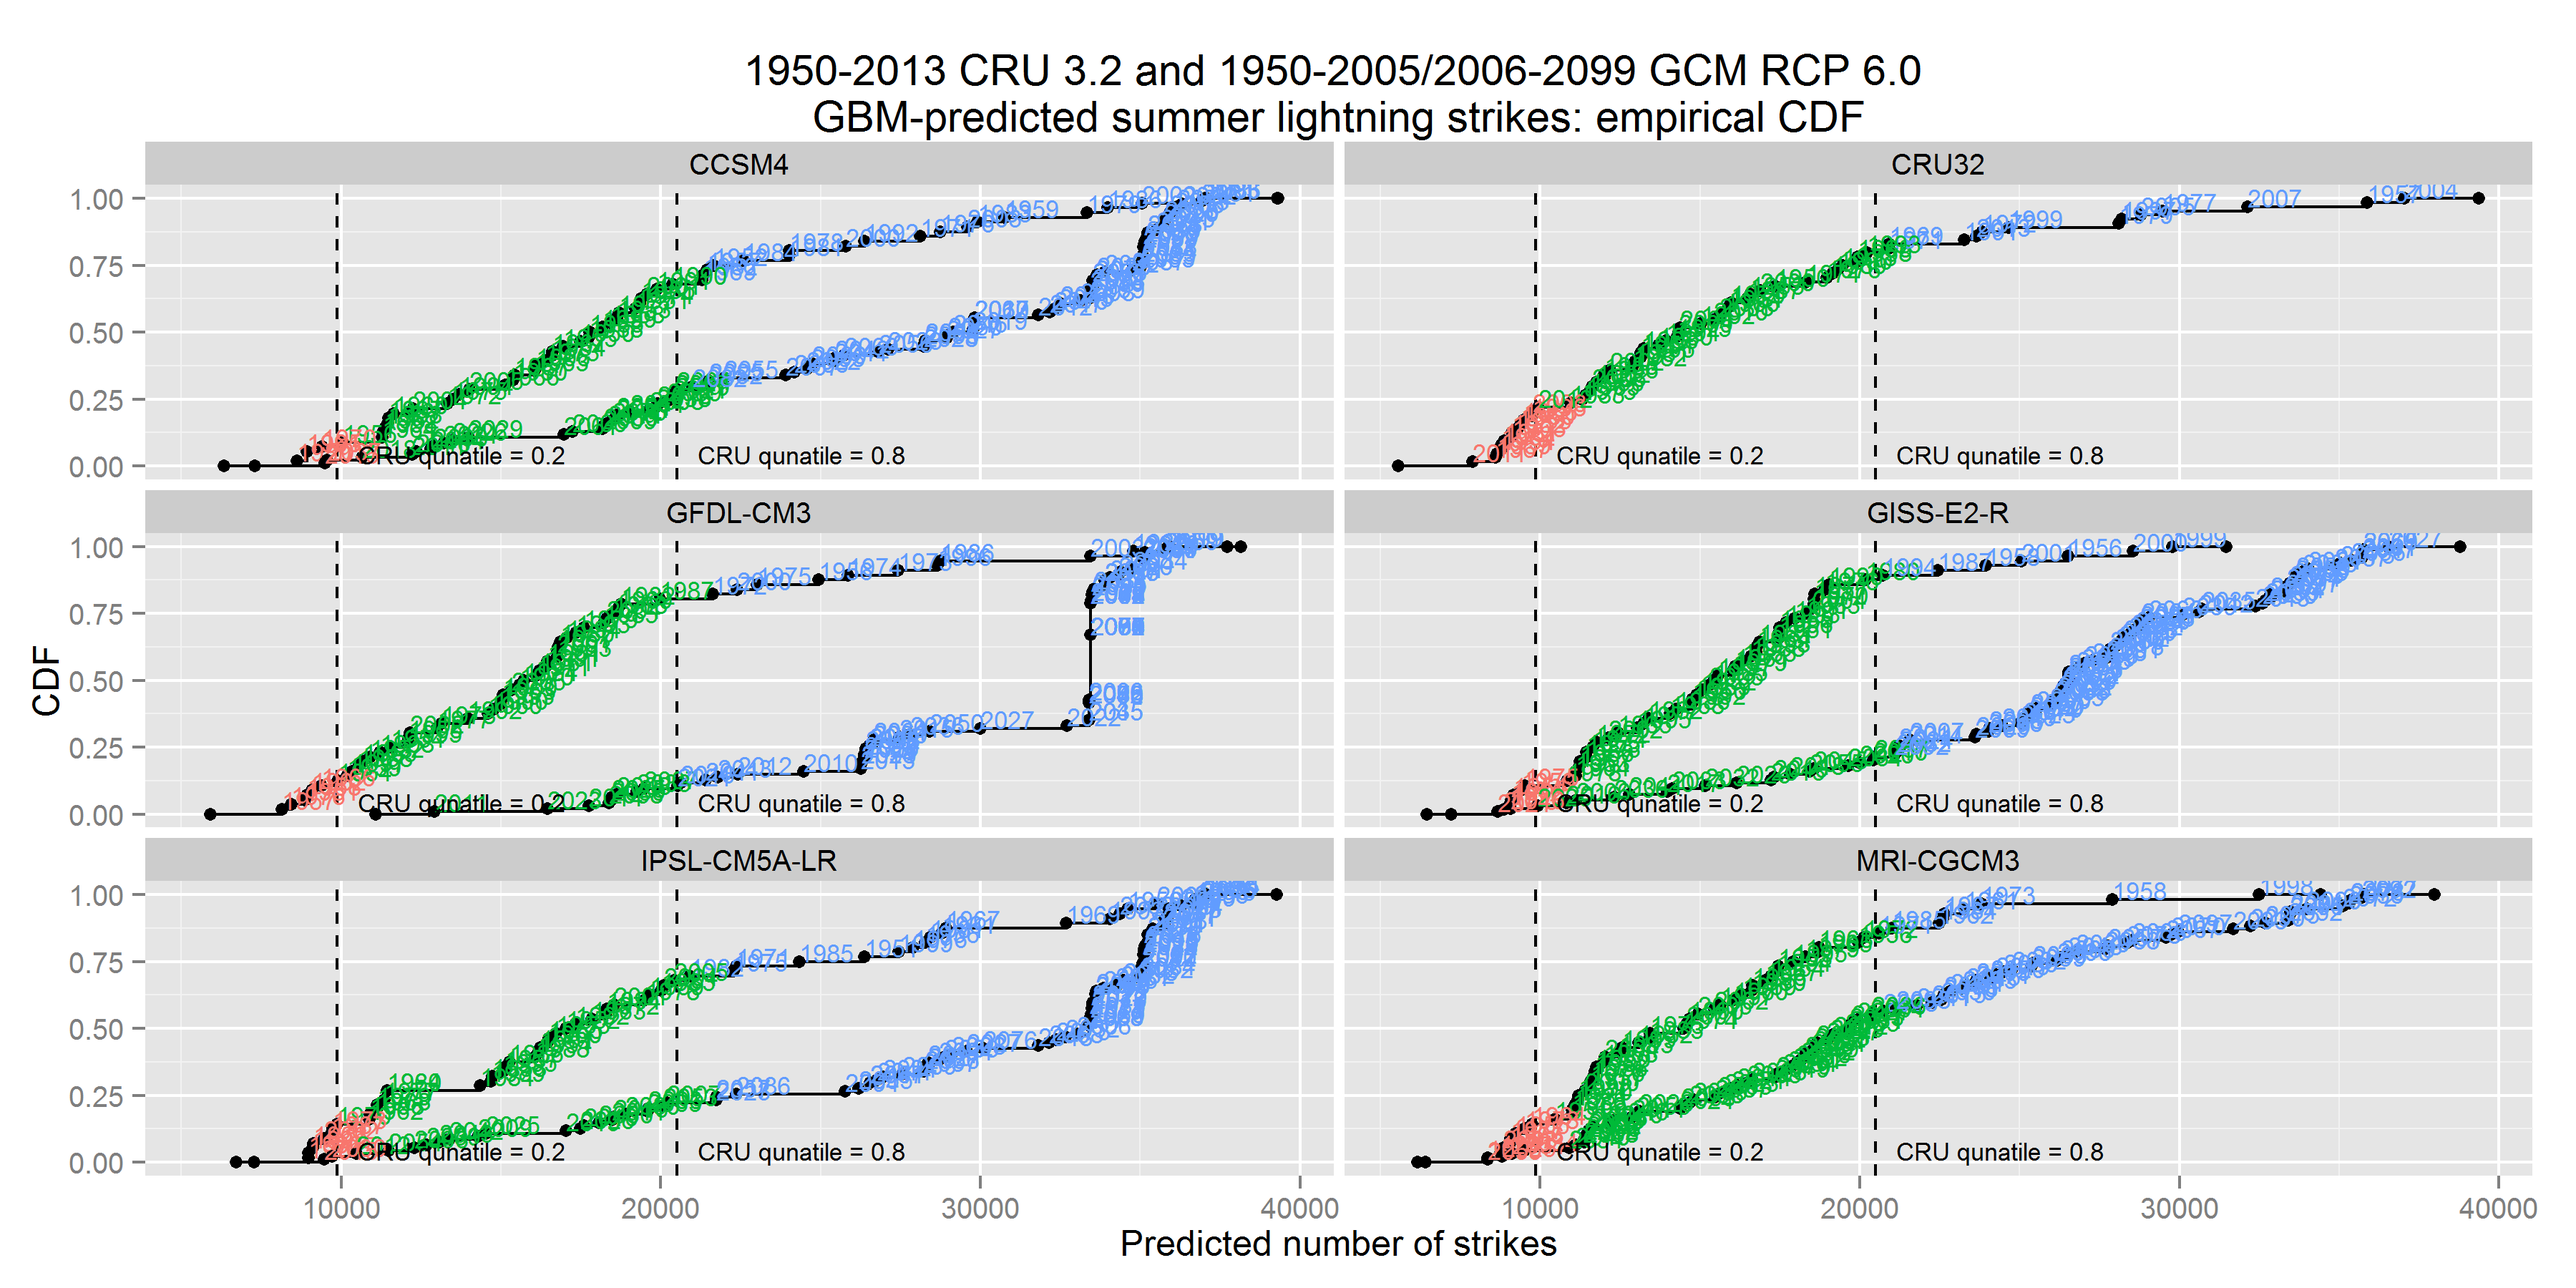
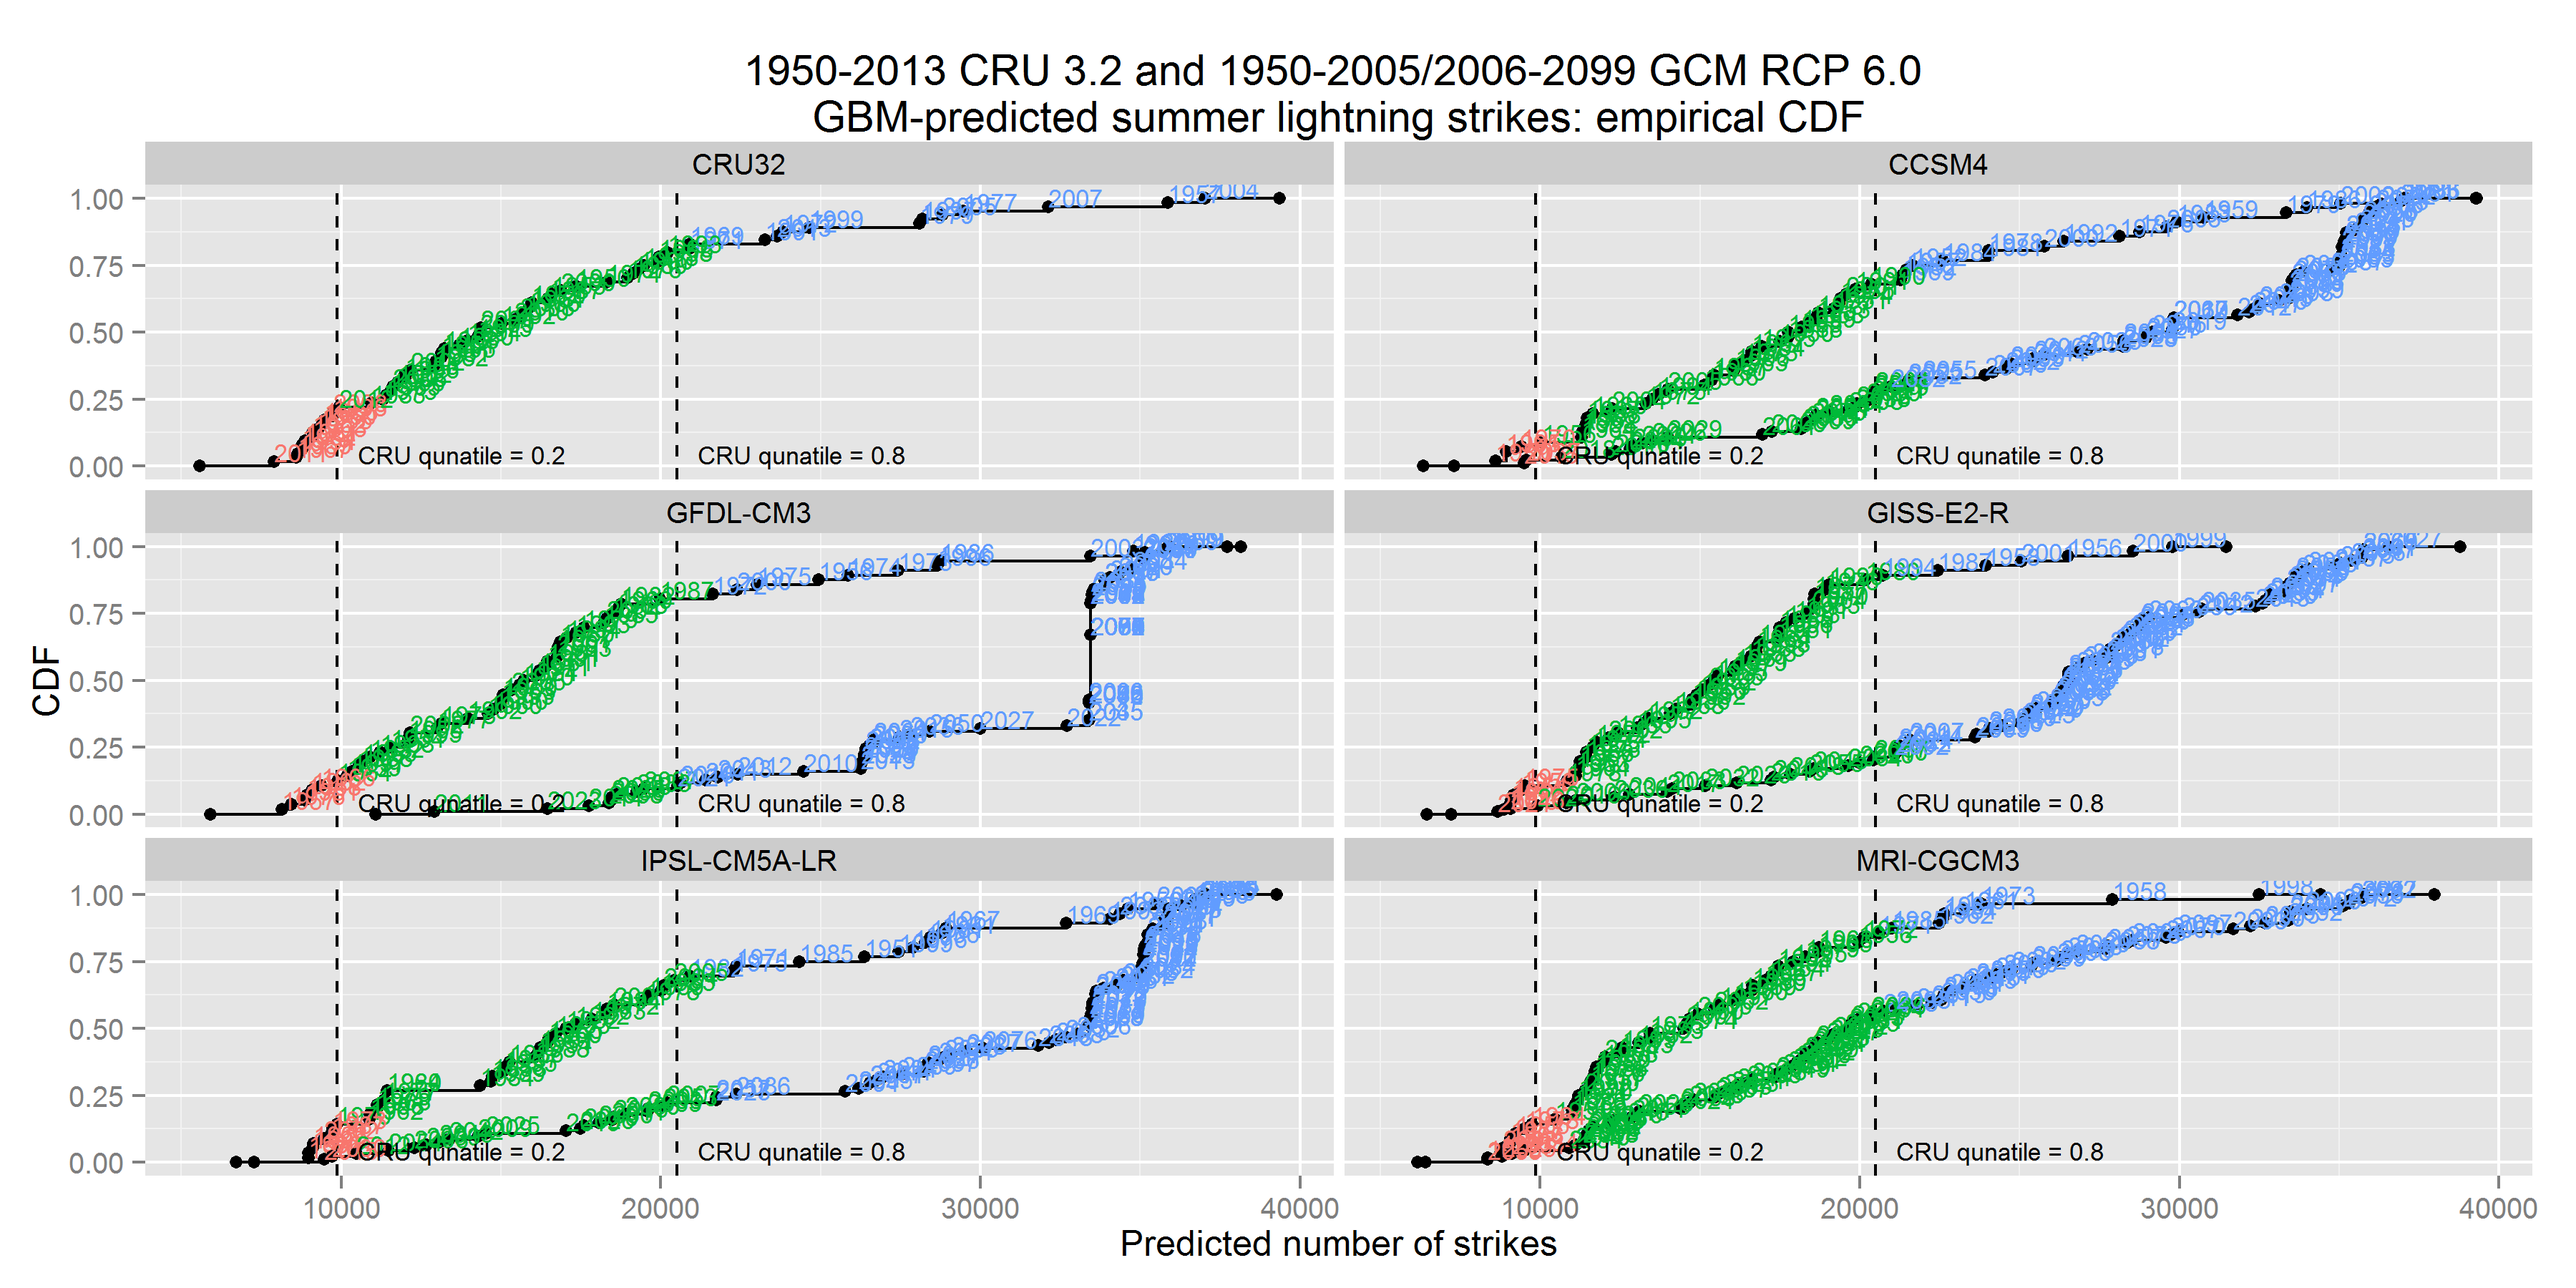
Update docs

Changed region(s): [[0.56, 0.1244, 0.9644, 0.3733], [0.0933, 0.1244, 0.4978, 0.3733]]

diff --git a/gbm_lightning_coefficients.html b/gbm_lightning_coefficients.html
@@ -335,9 +335,7 @@ d &lt;-<span class="st"> </span><span class="kw">data.table</span>(<span class="
 <span class="st">    </span><span class="kw">mutate</span>(<span class="dt">Rank =</span> <span class="kw">rank</span>(LightPred), <span class="dt">Class =</span> <span class="kw">get_classes1</span>(LightPred), <span class="dt">Coef =</span> <span class="kw">get_coefficients</span>(LightPred), 
         <span class="dt">ECDF =</span> <span class="kw">ecdf</span>(LightPred)(LightPred)) %&gt;%<span class="st"> </span><span class="kw">mutate</span>(<span class="dt">Class =</span> <span class="kw">get_classes2</span>(Class)) %&gt;%<span class="st"> </span>
 <span class="st">    </span><span class="kw">setcolorder</span>(<span class="kw">names</span>(d))
-<span class="co"># d %&gt;% rbind(d2) %&gt;% mutate(Model=factor(Model, levels=unique(Model))) -&gt;</span>
-<span class="co"># d.all</span>
-d.all &lt;-<span class="st"> </span><span class="kw">rbind</span>(d, d2)
+d.all &lt;-<span class="st"> </span>d %&gt;%<span class="st"> </span><span class="kw">rbind</span>(d2) %&gt;%<span class="st"> </span><span class="kw">mutate</span>(<span class="dt">Model =</span> <span class="kw">factor</span>(Model, <span class="dt">levels =</span> <span class="kw">unique</span>(Model)))
 rcp.lab &lt;-<span class="st"> &quot;RCP 6.0&quot;</span>
 rcp &lt;-<span class="st"> </span><span class="kw">tolower</span>(<span class="kw">gsub</span>(<span class="st">&quot;[ .]&quot;</span>, <span class="st">&quot;&quot;</span>, rcp.lab))
 d.sub &lt;-<span class="st"> </span>d2 %&gt;%<span class="st"> </span><span class="kw">filter</span>(Scenario %in%<span class="st"> </span><span class="kw">c</span>(<span class="st">&quot;historical&quot;</span>, rcp)) %&gt;%<span class="st"> </span><span class="kw">mutate</span>(<span class="dt">Scenario =</span> rcp) %&gt;%<span class="st"> </span>
@@ -402,11 +400,11 @@ d.sub &lt;-<span class="st"> </span>d2 %&gt;%<span class="st"> </span><span clas
 <div id="notes" class="section level5">
 <h5>Notes:</h5>
 <ul>
-<li><p>Changes to the lightning detection network prior to 2003 and after 2011 limit the series of comparable samples.</p></li>
+<li>Changes to the lightning detection network prior to 2003 and after 2011 limit the series of comparable samples.</li>
 <li>A GBM model estimates lightning strike frequency over the domain as a function of climate.</li>
 <li>Use of climate provides the opportunity to model annual lightning strike frequency backcasts and future projections over the domain using CRU 3.2 and CMIP5 GCM climate outputs.</li>
 <li>Given the lightning sample size, much information is aggregated into each total statewide summer lightning frequency.</li>
-<li><p>The model will likely be improved upon with additional data, climate scenarios, assessment of GBM model uncertainty (currently only GCM uncertainty is included), as well as deeper explorations of the nonlinear climate-lightning linkage itself.</p></li>
+<li>The model will likely be improved upon with additional data, climate scenarios, assessment of GBM model uncertainty (currently only GCM uncertainty is included), as well as deeper explorations of the nonlinear climate-lightning linkage itself.</li>
 </ul>
 <pre class="sourceCode r"><code class="sourceCode r">cbpal &lt;-<span class="st"> </span><span class="kw">c</span>(<span class="st">&quot;#000000&quot;</span>, <span class="st">&quot;#E69F00&quot;</span>, <span class="st">&quot;#56B4E9&quot;</span>, <span class="st">&quot;#009E73&quot;</span>, <span class="st">&quot;#F0E442&quot;</span>, <span class="st">&quot;#0072B2&quot;</span>, 
     <span class="st">&quot;#D55E00&quot;</span>, <span class="st">&quot;#CC79A7&quot;</span>)
